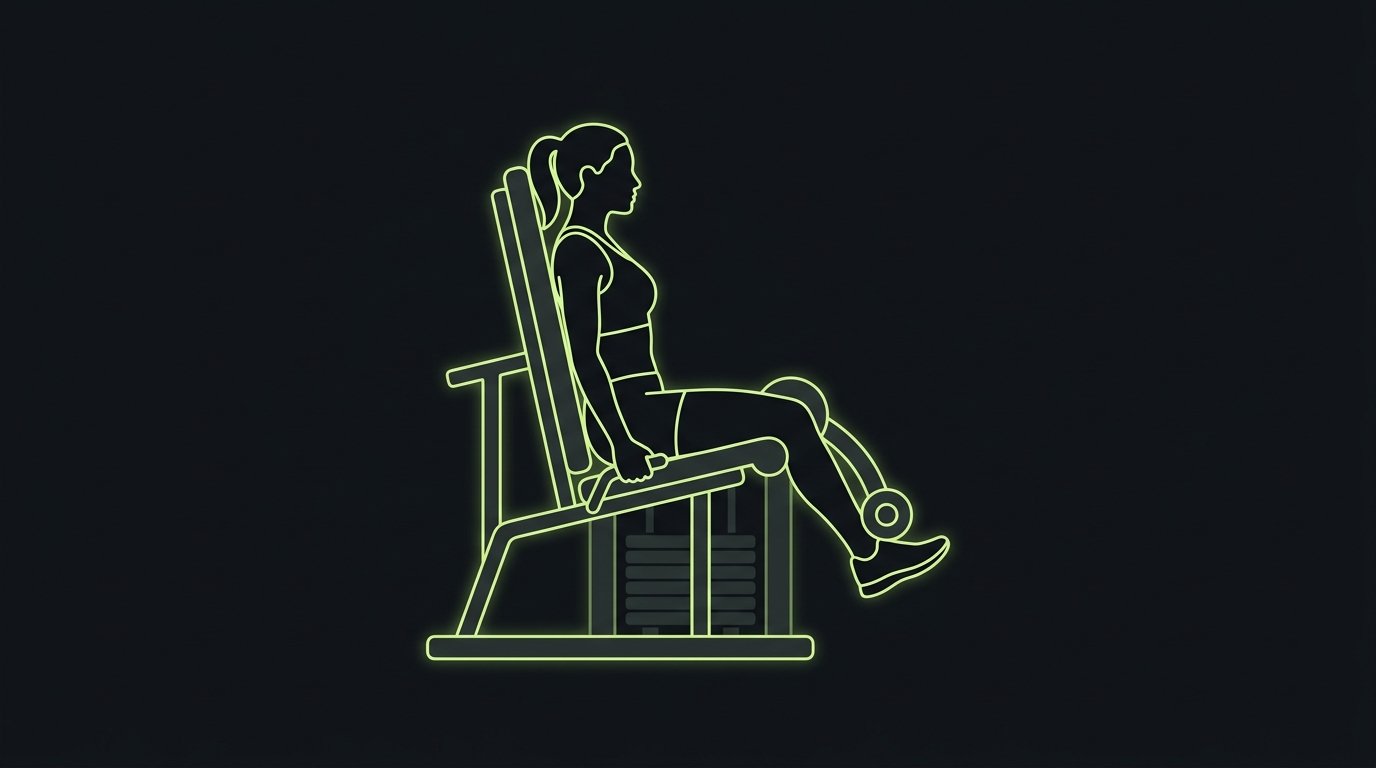
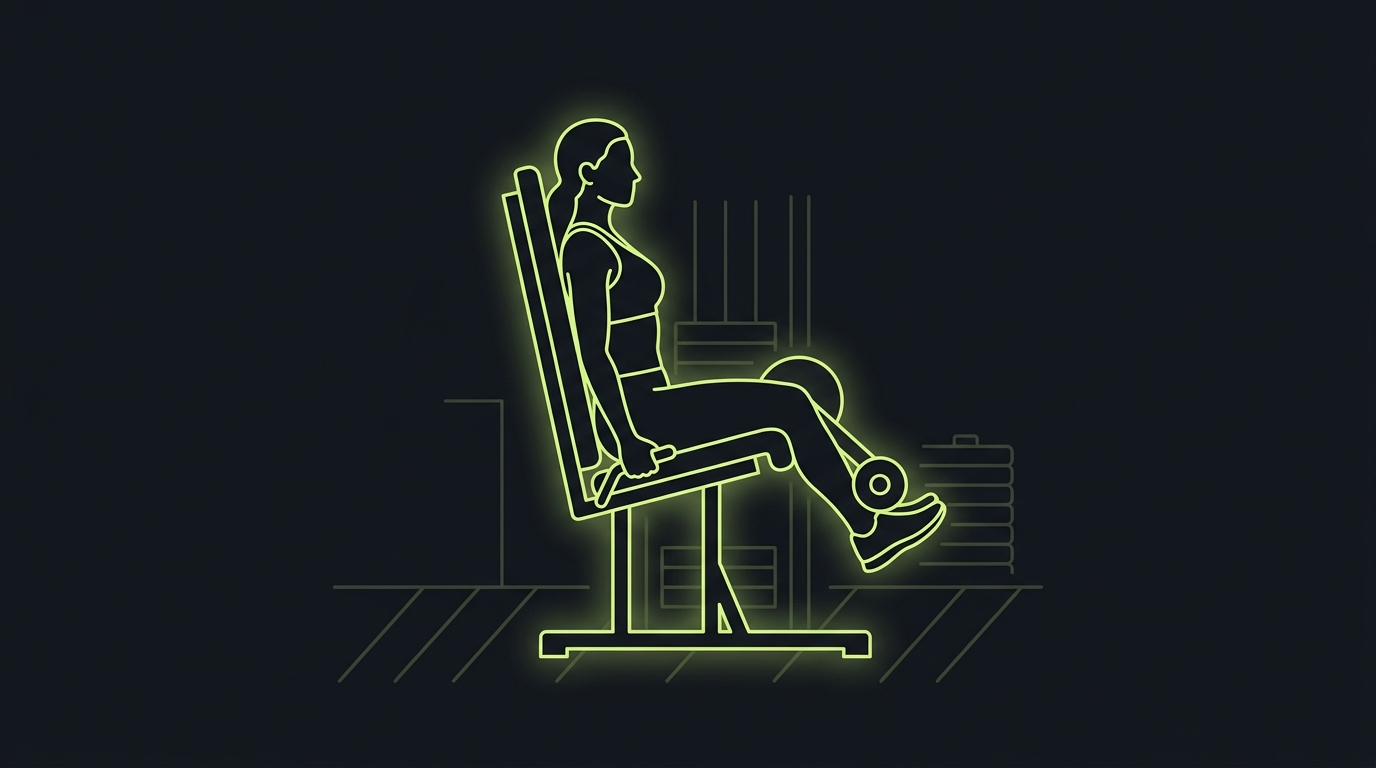
fix(ejercicios): regenerate femoral sentado with correct roller position
Update prompt to place roller behind ankles (not in front) to
distinguish from quad extension machine.

Changed region(s): [[0.25, 0.125, 0.75, 0.875]]

diff --git a/ejercicios/generate_images.py b/ejercicios/generate_images.py
@@ -59,7 +59,7 @@ EXERCISE_PROMPTS = {
     "prensa-vertical": ("a vertical leg press machine with metal frame and guide rails, person lying on back on the base pad inside the machine frame, pushing a plate-loaded platform vertically upward with both feet along guide rails", "3/4 diagonal view"),
     "femoral-de-pie": ("a standing single-leg hamstring curl machine, standing upright with chest leaning on pad, curling one leg back bringing heel toward glute against a roller pad", "3/4 diagonal view from behind"),
     "femoral-tumbado": ("a prone lying leg curl machine, lying face down on a bench curling both heels toward glutes against a roller pad, gripping front handles", "side view"),
-    "femoral-sentado": ("a seated leg curl machine, sitting upright with back against pad, legs extended over a roller, curling heels down and back under the seat", "side view"),
+    "femoral-sentado": ("a seated hamstring curl machine, sitting with back against pad, roller pad behind the ankles not in front, curling heels backward and downward under the seat by bending knees", "side view"),
     "press-inclinado-unilateral-maquina": ("a seated single-arm incline chest press on a machine, pushing upward and forward with one arm on an inclined trajectory", "3/4 diagonal view"),
     "extensiones-triceps-barra": ("a standing tricep straight bar pushdown on a cable machine, gripping a straight bar pushing down", "3/4 diagonal view"),
 }
